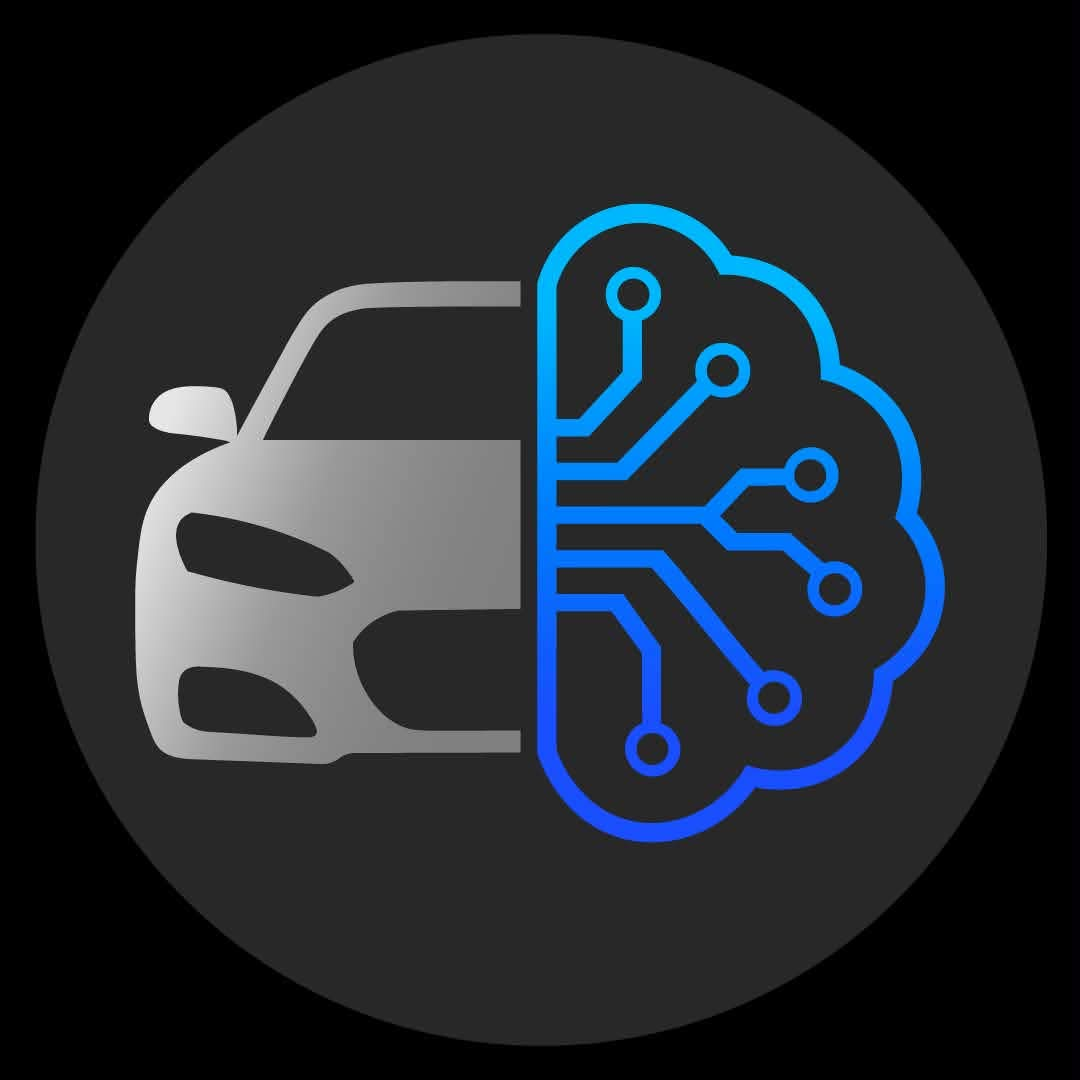
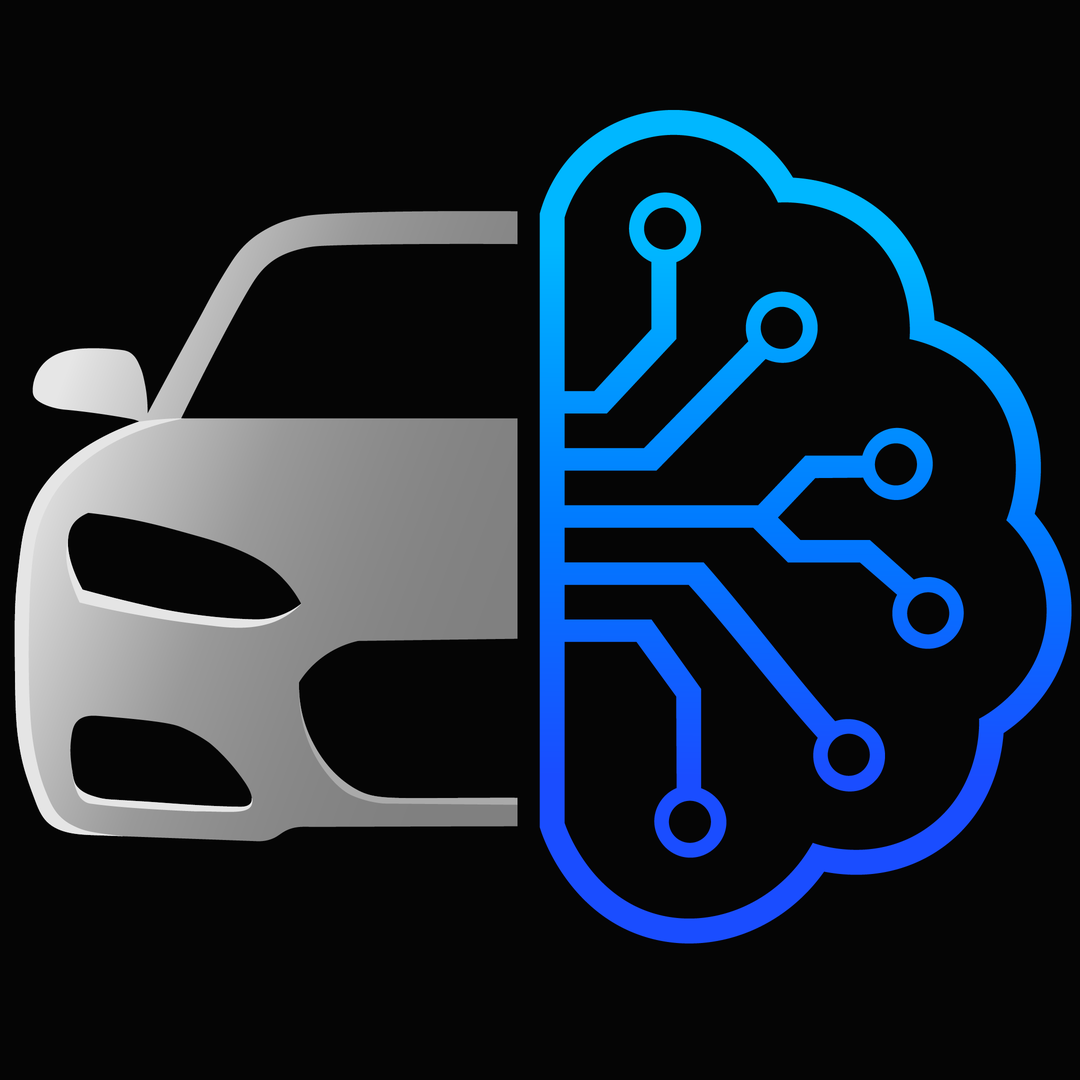
chore: sync frontend lineage + version to 0.3.128+187 from autobrain (auto)

diff --git a/CHANGELOG.md b/CHANGELOG.md
@@ -16,7 +16,13 @@ Format follows [Keep a Changelog](https://keepachangelog.com/).
 
 
 
+
 ## [Unreleased]
+
+### Changed
+- App: swapped app logo to the new no-text mark across web icons, iOS AppIcon set (all 25 sizes), Android launcher mipmaps + adaptive foregrounds, and in-app `assets/logo.png`/`app_icon.png` (AUT-1544)
+
+## [0.3.128] - 2026-08-24
 
 ### Security
 - Docker: stack-config hardening from AUT-1486/AUT-1498 audit (AUT-1533) — credentials moved to `*_FILE` secret files loaded at entrypoint (`docker/lib-load-secrets.sh`), so Postgres/Redis/MinIO/backend/API-key values never appear in container env; Redis/Celery broker now requires auth (`--requirepass`, derived authenticated URLs); 9Router image digest-pinned; compose config check + secret-seed scripts added.
